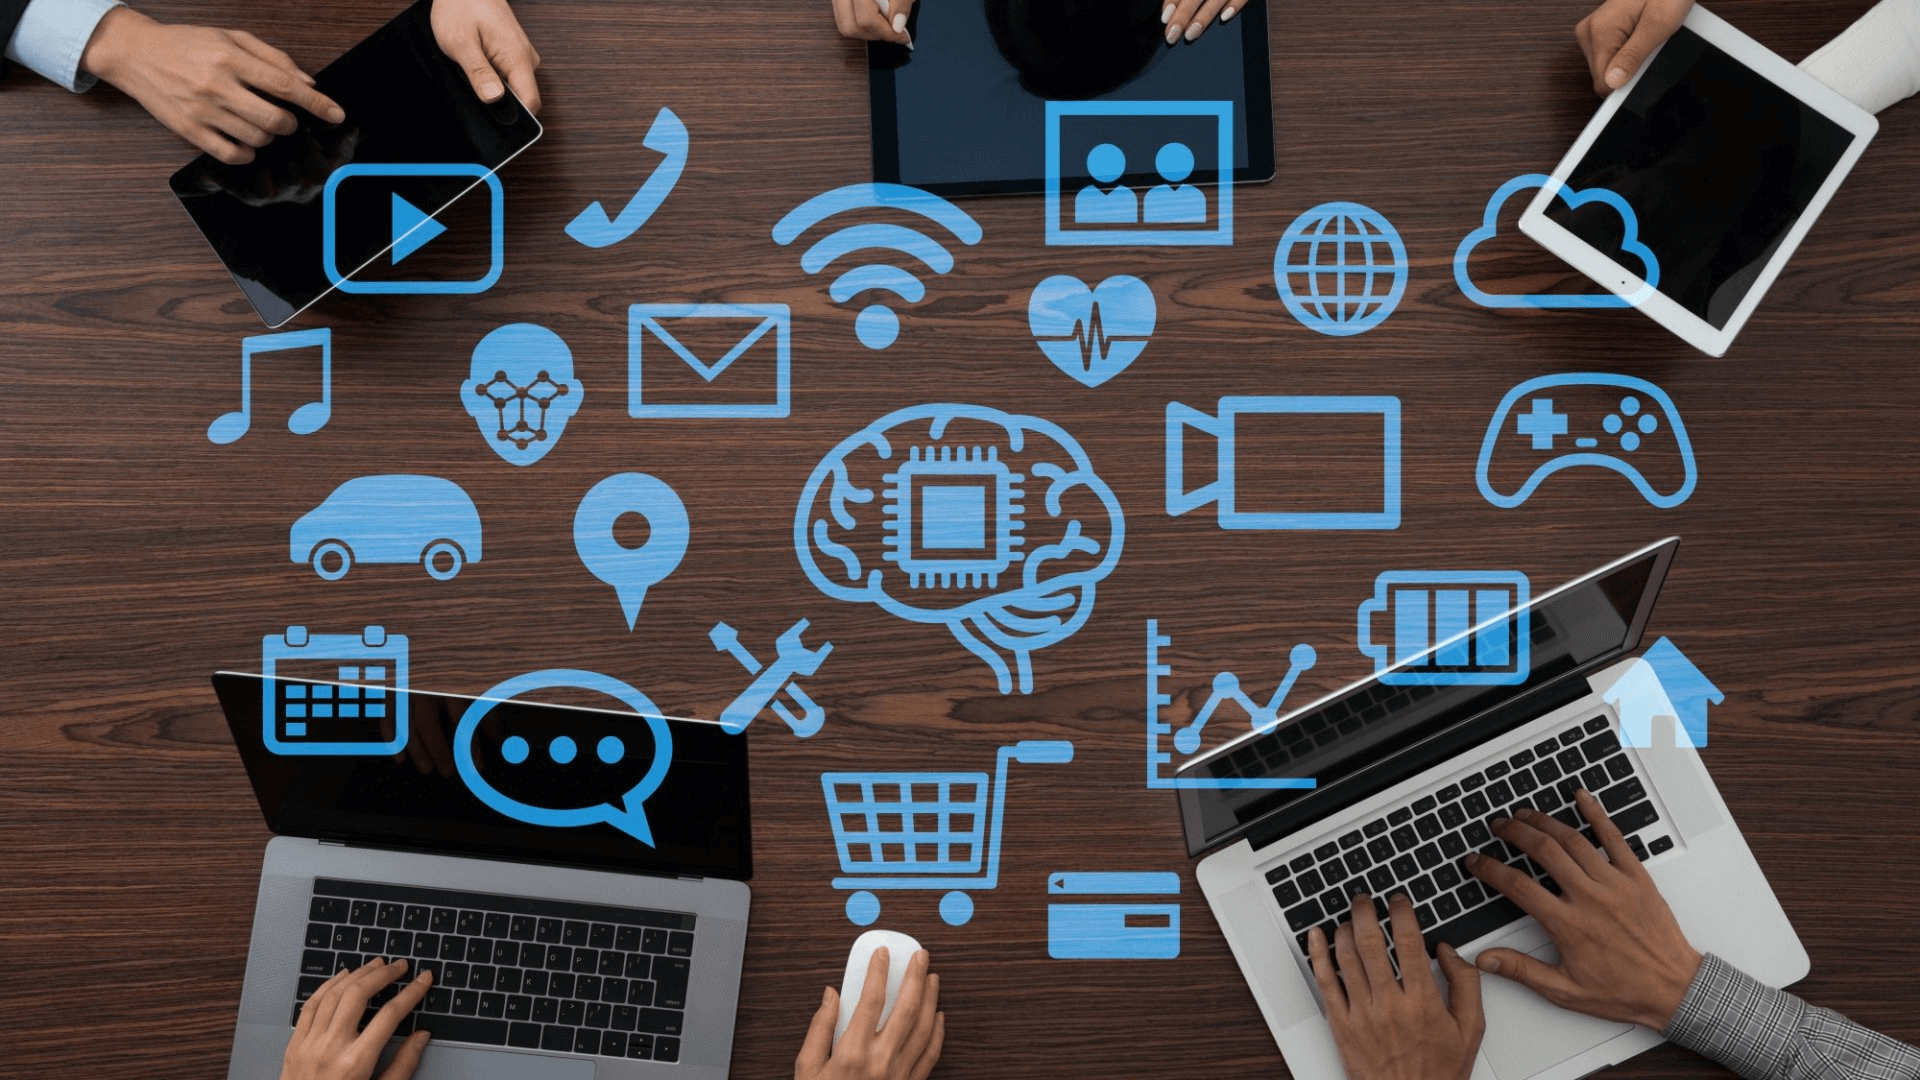
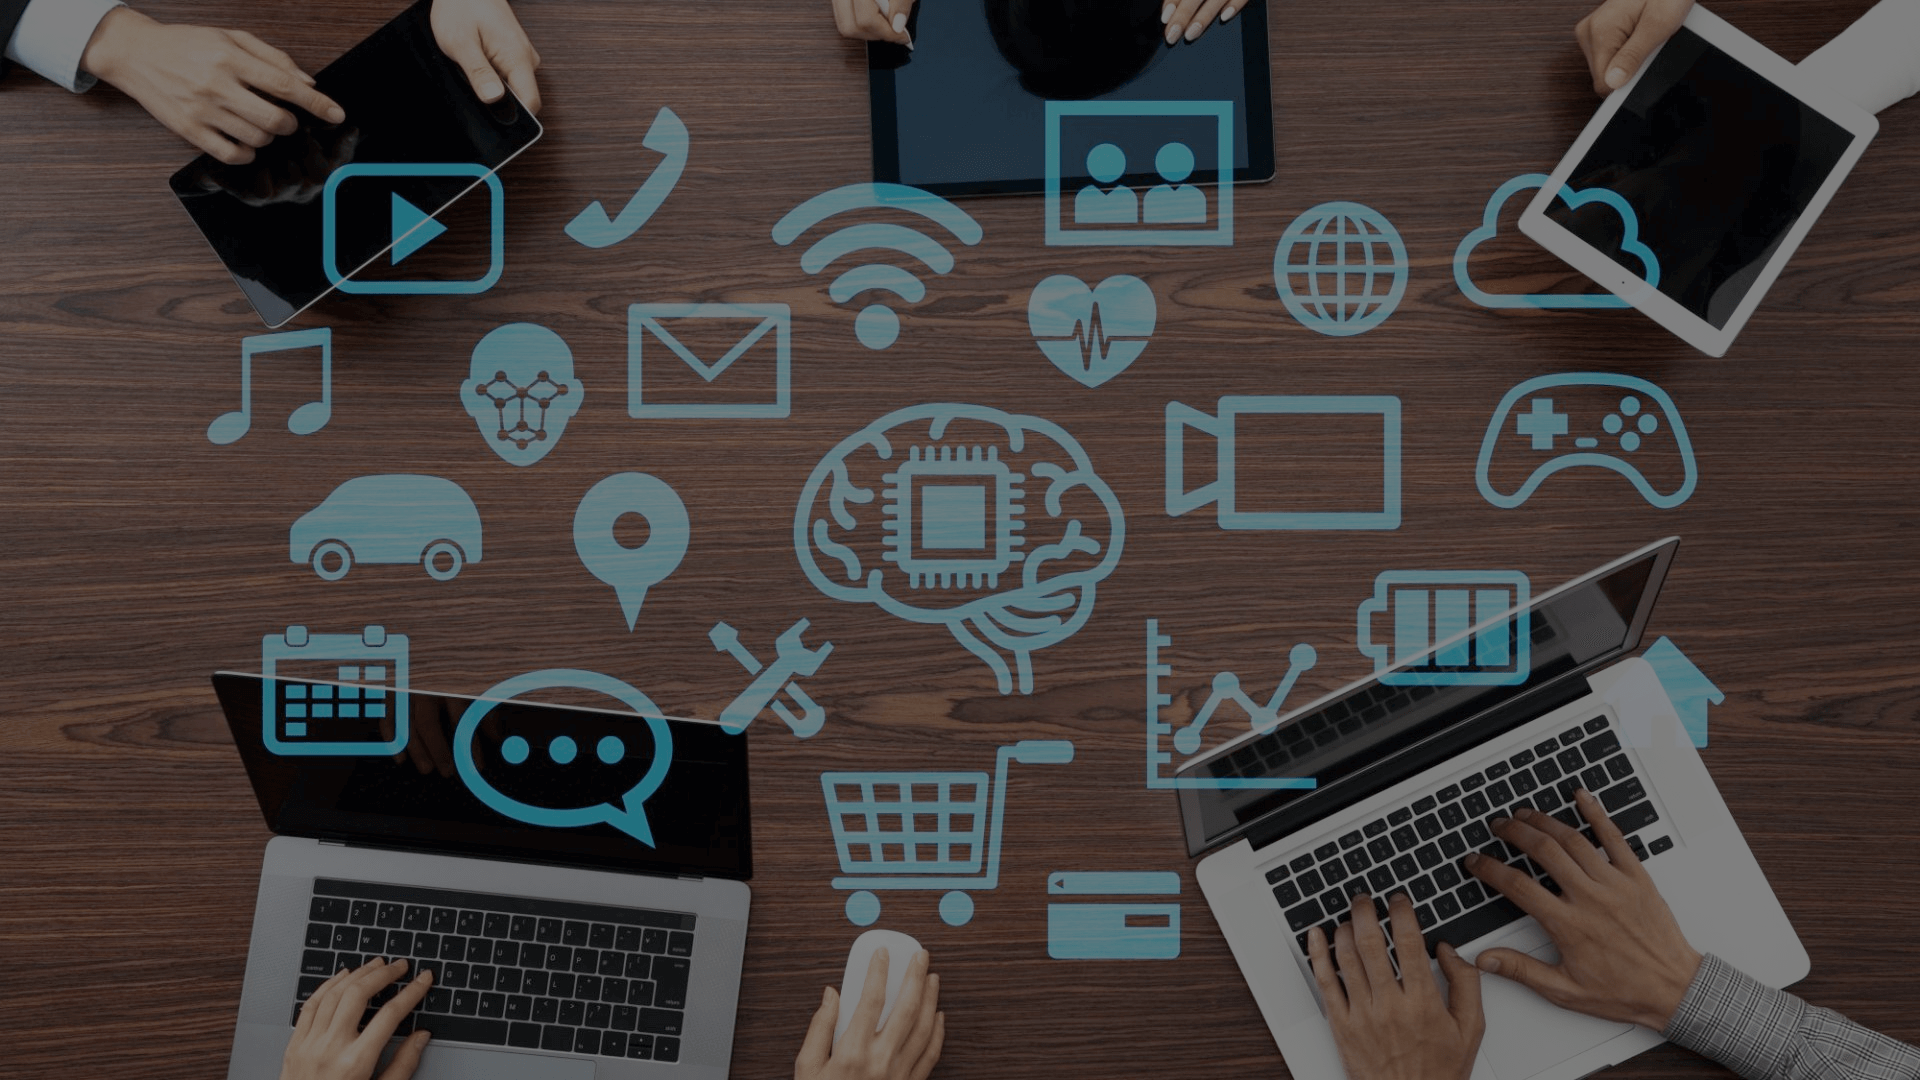
lastup

diff --git a/Study.html b/Study.html
@@ -480,8 +480,29 @@
                     </div>
                 </div>
             </div> -->
+            <section class="map-section inverse-bg" style="padding:60px 0; background:linear-gradient(180deg, #494036 -100%, #36322D 100%);">
+  <div class="container" style="text-align:center;">
+    <!-- 제목 + 장식 -->
+    <div class="heading_1">
+      <h2>My Study Place</h2>
+    </div>
+
+    <!-- 지도 카드 -->
+    <div style="max-width:900px; margin:0 auto; border-radius:12px; overflow:hidden; box-shadow:0 4px 20px rgba(0,0,0,0.25);">
+      <iframe 
+        src="https://www.google.com/maps/embed?pb=!1m18!1m12!1m3!1d3232.7017651663755!2d128.6244664118976!3d35.88082477240887!2m3!1f0!2f0!3f0!3m2!1i1024!2i768!4f13.1!3m3!1m2!1s0x3565e195cf24f40d%3A0xf4ed22431d783ec8!2z7ZWc6rWtSVTqtZDsnKHsm5A!5e0!3m2!1sko!2skr!4v1757260377543!5m2!1sko!2skr" 
+        width="100%" 
+        height="450" 
+        style="border:0; display:block;" 
+        allowfullscreen="" 
+        loading="lazy" 
+        referrerpolicy="no-referrer-when-downgrade">
+      </iframe>
+    </div>
+  </div>
+</section>
             <!-- Footer -->
-  <footer class="footer pt-50 pb-50 inverse-bg">
+             <footer class="footer pt-50 pb-50 inverse-bg">
   <div class="container">
     <div class="content" style="text-align:center;">
       <h2 class="fs-61">JUHN'S AREA</h2>

diff --git a/assets/css/app.css b/assets/css/app.css
@@ -3178,3 +3178,21 @@ footer .content .footer-bottom p {
     padding: 10px 20px;
   }
 }
+.banner .title h2 {
+  color: #fff; /* 기본 흰색 */
+  text-shadow: 
+    -2px -2px 0 #000,  
+     2px -2px 0 #000,
+    -2px  2px 0 #000,
+     2px  2px 0 #000;
+}
+
+/* 배너 안의 문단 */
+.banner p {
+  color: #fff;
+  text-shadow: 
+    -1px -1px 0 #000,
+     1px -1px 0 #000,
+    -1px  1px 0 #000,
+     1px  1px 0 #000;
+}

diff --git a/index.html b/index.html
@@ -964,10 +964,10 @@
             </div>
         </div> -->
       <!-- Our Teams Area Start -->
-<div class="teams pt-50 pb-50 bg">
+<div class="teams pt-50 pb-50" style="background:linear-gradient(180deg, #494036 -100%, #36322D 100%);">
   <div class="container">
     <div class="heading_1">
-      <h2>Our Teams</h2>
+      <h2 style="color:#fff;">Our Teams</h2>
     </div>
     <div class="row g-4">
 

diff --git a/readme.md b/readme.md
@@ -11,3 +11,6 @@ index.html(메인페이지)
 - 반응형 코드 작동하는지 확인
 - 다른 html들 index.html 기준으로 디자인 통일
 - 최종 점검 작동확인
+- 메인 배너 이미지가 밝아서 글자가 잘 안보임
+- 글자에 검은 테두리를 입혀 조금 더 강조 그래도 잘 안보임
+- 배경 사진 자체의 밝기를 낮추어서 어느정도 괜찮아짐
